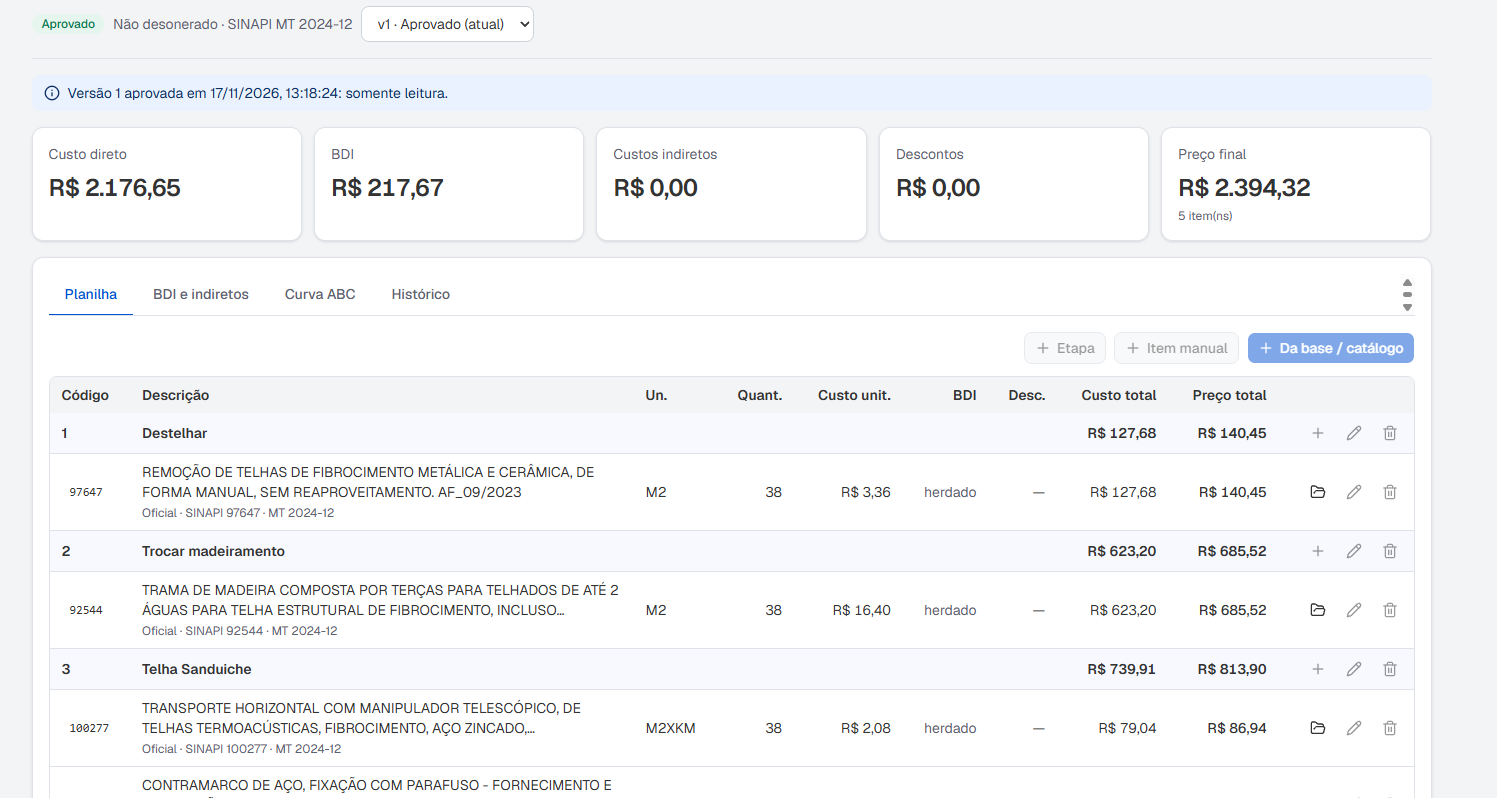
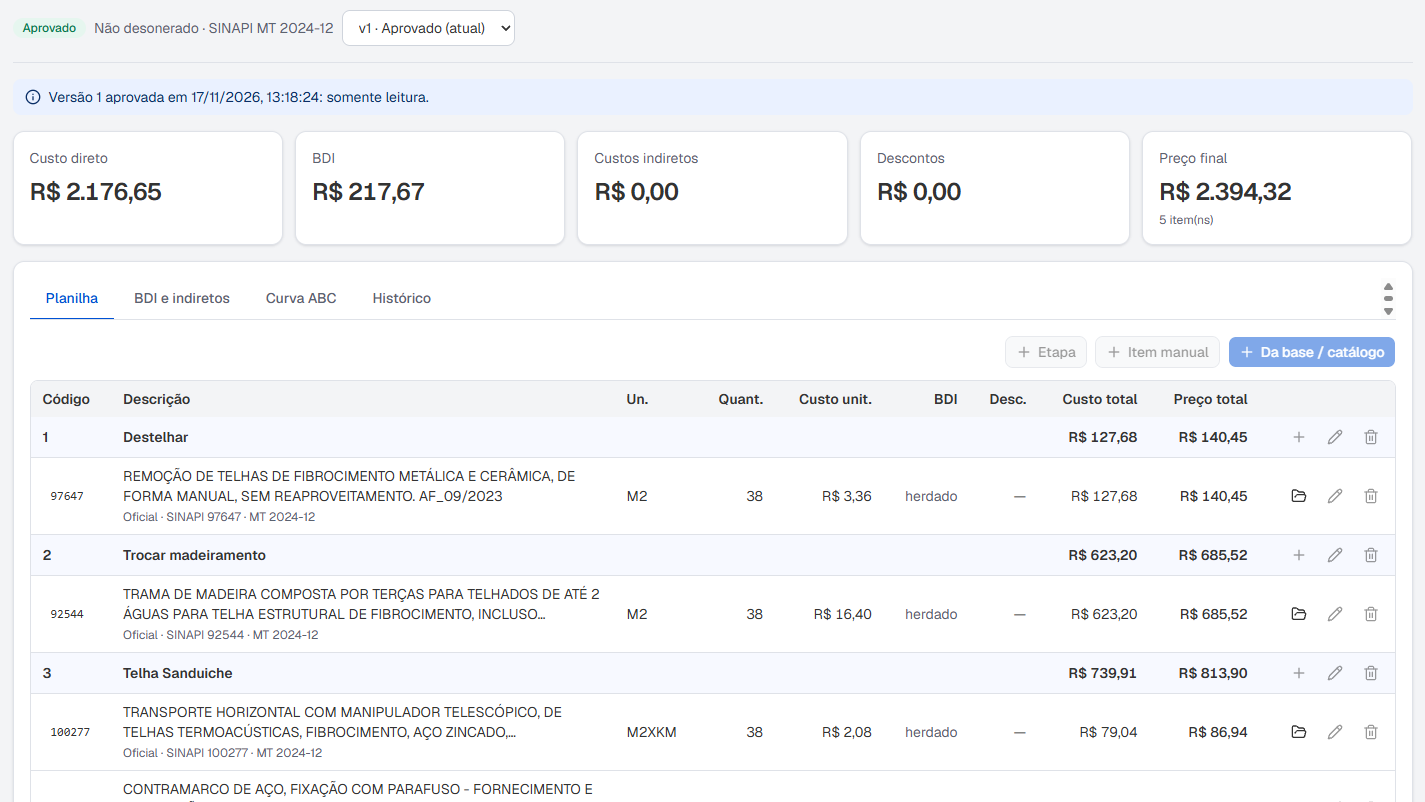
feat(landing): nova captura do orçamento (sem o nome do cliente) e link Orçamentos no cabeçalho

diff --git a/viaobras-web/src/landing/content.ts b/viaobras-web/src/landing/content.ts
@@ -23,6 +23,7 @@ export const SECTION_IDS = {
 export const NAV_LINKS = [
   { label: 'Plataforma', href: `#${SECTION_IDS.platform}` },
   { label: 'Recursos', href: `#${SECTION_IDS.features}` },
+  { label: 'Orçamentos', href: `#${SECTION_IDS.budget}` },
   { label: 'Benefícios', href: `#${SECTION_IDS.benefits}` },
 ] as const
 
@@ -72,8 +73,8 @@ export const SHOTS = {
   budget: {
     file: 'orcamentos.png',
     alt: 'Tela de orçamento da ViaObras com etapas, itens, BDI e preço final',
-    width: 1497,
-    height: 798,
+    width: 1425,
+    height: 802,
   },
   supplies: {
     file: 'suprimentos.png',
